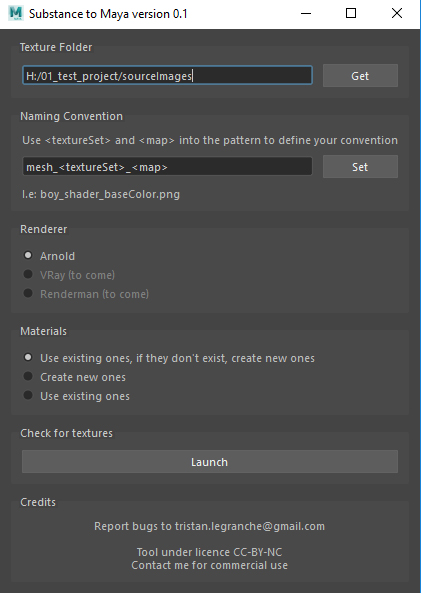
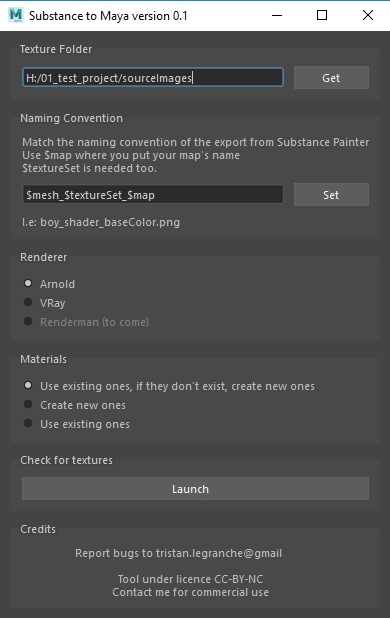
[major] Use the substance painter's naming convention
$mesh_$textureSet_$map instead of <textureSet> and <map>

Corrections on the documentation

diff --git a/SubstancePainterToMaya/main.py b/SubstancePainterToMaya/main.py
@@ -118,11 +118,11 @@ class PainterToMaya:
 
         # Add Naming Convention widgets
         self.nomenclatureInfo = QtWidgets.QLabel(
-            'Use <textureSet> and <map> into the pattern to define your convention'
+            'Match the naming convention of the export from Substance Painter\nUse $map where you put your map\'s name\n$textureSet is needed too.'
         )
         self.namingConventionSubLayout1.addWidget(self.nomenclatureInfo)
 
-        self.namingConvention = QtWidgets.QLineEdit('mesh_<textureSet>_<map>')
+        self.namingConvention = QtWidgets.QLineEdit('$mesh_$textureSet_$map')
         self.namingConventionSubLayout2.addWidget(self.namingConvention)
 
         self.setNamingConventionButton = QtWidgets.QPushButton('Set')
@@ -425,12 +425,12 @@ class PainterToMaya:
                 for i in range(0, len(parts)):
 
                     # If the split is <textureSet>
-                    if parts[i] == '<textureSet>':
+                    if parts[i] == '$textureSet':
                         textureSetPos = i
                         textureSetSeparator = delimiter
 
                     # Elif the split is <map>
-                    elif parts[i] == '<map>':
+                    elif parts[i] == '$map':
                         mapPos = i
                         mapPosSeparator = delimiter
 
@@ -584,11 +584,12 @@ class PainterToMaya:
         text = 'I.e: '
 
         # Change the naming convention example
-        if '<textureSet>' in self.namingConvention.text() and '<map>' in self.namingConvention.text():
+        if '$textureSet' in self.namingConvention.text() and '$map' in self.namingConvention.text():
             text += self.namingConvention.text()
 
-            text = text.replace('<textureSet>', 'shader')
-            text = text.replace('<map>', 'baseColor')
+            text = text.replace('$textureSet', 'shader')
+            text = text.replace('$map', 'baseColor')
+            text = text.replace('$mesh', 'boy')
 
             self.namingConventionInfo.setStyleSheet(
                 'color:%s;' % 'white' +
@@ -598,7 +599,7 @@ class PainterToMaya:
             text += '.png'
 
         else:
-            text = 'Warning: <textureSet> and <map> are needed !'
+            text = 'Warning: $textureSet and $map are needed !'
             self.namingConventionInfo.setStyleSheet(
                 'color:%s;' % 'yellow' +
                 'font-weight:bold;'

diff --git a/SubstancePainterToMaya/config_vray.py b/SubstancePainterToMaya/config_vray.py
@@ -25,7 +25,7 @@ MAP_LIST_REAL_ATTRIBUTES = [
 ]
 
 BASE_COLOR = [
-    'baseColor', 'BaseColor', 'basecolor', 'color', 'Color', 'albedo', 'Albedo', 'diffuse', 'Diffuse'
+    'baseColor', 'BaseColor', 'basecolor', 'color', 'Color', 'albedo', 'Albedo', 'diffuse', 'Diffuse', 'diff', 'Diff'
 ]
 HEIGHT = [
     'displace', 'Displace', 'Displacement', 'displacement', 'height', 'Height',
@@ -38,7 +38,7 @@ NORMAL = [
     'normal', 'Normal', 'normalMap', 'NormalMap'
 ]
 ROUGHNESS = [
-    'roughness', 'Roughness', 'specularRoughness', 'SpecularRoughness', 'specular', 'Specular', 'glossiness', 'glossy', 'Glossiness', 'Glossy'
+    'roughness', 'Roughness', 'specularRoughness', 'SpecularRoughness', 'specular', 'Specular', 'glossiness', 'glossy', 'Glossiness', 'Glossy', 'spec', 'Spec'
 ]
 MATTE = [
     'Matte', 'matte'

diff --git a/SubstancePainterToMaya/config_mtoa.py b/SubstancePainterToMaya/config_mtoa.py
@@ -31,7 +31,7 @@ MAP_LIST_REAL_ATTRIBUTES = [
 ]
 
 BASE_COLOR = [
-    'baseColor', 'BaseColor', 'basecolor', 'color', 'Color', 'albedo', 'Albedo', 'diffuse', 'Diffuse'
+    'baseColor', 'BaseColor', 'basecolor', 'color', 'Color', 'albedo', 'Albedo', 'diffuse', 'Diffuse', 'diff', 'Diff'
 ]
 HEIGHT = [
     'displace', 'Displace', 'Displacement', 'displacement', 'height', 'Height',
@@ -44,7 +44,7 @@ NORMAL = [
     'normal', 'Normal', 'normalMap', 'NormalMap'
 ]
 ROUGHNESS = [
-    'roughness', 'Roughness', 'specularRoughness', 'SpecularRoughness', 'specular', 'Specular'
+    'roughness', 'Roughness', 'specularRoughness', 'SpecularRoughness', 'specular', 'Specular', 'spec', 'Spec'
 ]
 MATTE = [
     'Matte', 'matte'

diff --git a/README.md b/README.md
@@ -42,7 +42,11 @@ Click **Get** to open a dialog to choose the folder or type the folder's path in
 By default, the tool uses the sourceImages folder of your project
 
 * #### Naming convention
-Type the Naming Convention of your Substance Painter textures using < textureSet > and < map > (without spaces)  
+Use the same naming convention as your Painter map export.   
+Use $map where you put your map's name (ex: diffuse)   
+Tthe script needs $textureSet and $map to work.  
+(I.e for a texture named rollingTeapot_aiStandardSurface1_BaseColor, the naming convention is $mesh_$textureSet_$map)  
+
 Click the **Set button** and check the example bellow to see if it corresponds.  
 Use whatever word you want for the other parts of your naming convention  
 (I.e: 'mesh' is used by default to indicates that the textures files begin with a word)
@@ -52,11 +56,11 @@ Choose the renderer you want to use
 
 * #### Materials
 **Create new ones if they doesn't exist, instead use existing ones**  
-If the tool find shaders named like your Naming Convention's < textureSet >, and if the shaders are the ones used by your renderer, the textures will be plugged in those shaders, instead, the tool will create new shaders with the name and '_shd' as suffix. 
+If the tool find shaders named like your Naming Convention's $textureSet, and if the shaders are the ones used by your renderer, the textures will be plugged in those shaders, instead, the tool will create new shaders with the name and '_shd' as suffix. 
 **Create new ones**  
 The tool will create new shaders and plug the textures in them and add '_shd' suffix to the found name.  
 **Use existing ones**  
-If the tool find shaders named like your Naming Convention's < textureSet >, and if the shaders are the ones used by your renderer, the textures will be plugged in those shaders, instead, nothing will append.
+If the tool find shaders named like your Naming Convention's $textureSet, and if the shaders are the ones used by your renderer, the textures will be plugged in those shaders, instead, nothing will append.
 
 * #### Launch and Re-launch
 Click this button to launch the search of the textures and the creation of the second part of the interface.  
@@ -83,16 +87,8 @@ For each model connected to an already existing shader used by the tool, render 
 * #### Proceed
 Click this button to import the textures, create the nodes and connect everything
 
-## Limitations
-
-1. This version 0.1 only works with Arnold, and uses aiStandardSurface shaders
-
-## Features to come
-
-1. Usable with VRay and Renderman
-2. Choose the shader to use (I.e: aiStandardHair, aiStandardVolume...)
-
-## Step by step on a case
+## Step by step with Arnold 
+#### (Vray is pretty much the same)
 1 - A scene is opened  
 
 ![open scene](pics/03_openScene.jpg)
@@ -109,13 +105,13 @@ Click this button to import the textures, create the nodes and connect everythin
   
 ![install_path](pics/07_textureFolder.jpg)  
 
-5 - I let the naming convention by default because my texture files are matching it (aWord_textureSet_textureChannel.png)
+5 - I let the naming convention by default because my texture files are matching it (mesh_textureSet_map.png)
   
 ![install_path](pics/08_textureFolderContent.jpg)  
 
 6 - I click on launch to search for the textures.  
 You can now see the list of the found maps, for each map you can specify in which aiStandardSurface parameter you want to plug it.  
-See that a uvSnap have been found, I let the dropdown menu on ---- Choose so it will not be used  
+See that a uvSnap and UVSnapshot000 have been found, I let the dropdown menu on ---- Choose so they will not be used  
 For more usual maps, the parameters are already set (but you can change them if you want)
     
 ![install_path](pics/10_launch.jpg)  
@@ -156,6 +152,15 @@ For more usual maps, the parameters are already set (but you can change them if 
   
 ![install_path](pics/19_render.jpg)  
 
+## Limitations
+
+1. This version 0.1 only works with Arnold and Vray
+
+## Features to come
+
+1. Usable with Renderman
+2. Choose the shader to use (I.e: aiStandardHair, aiStandardVolume...)
+3. Add UDIMs option
 
 ## Credits
 
